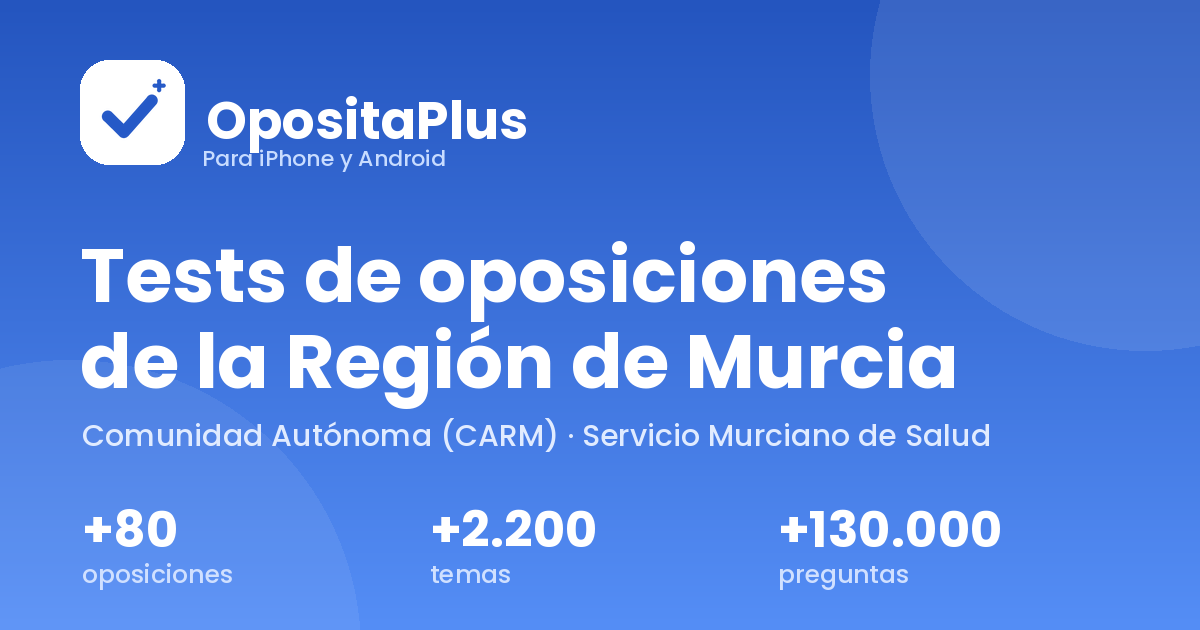
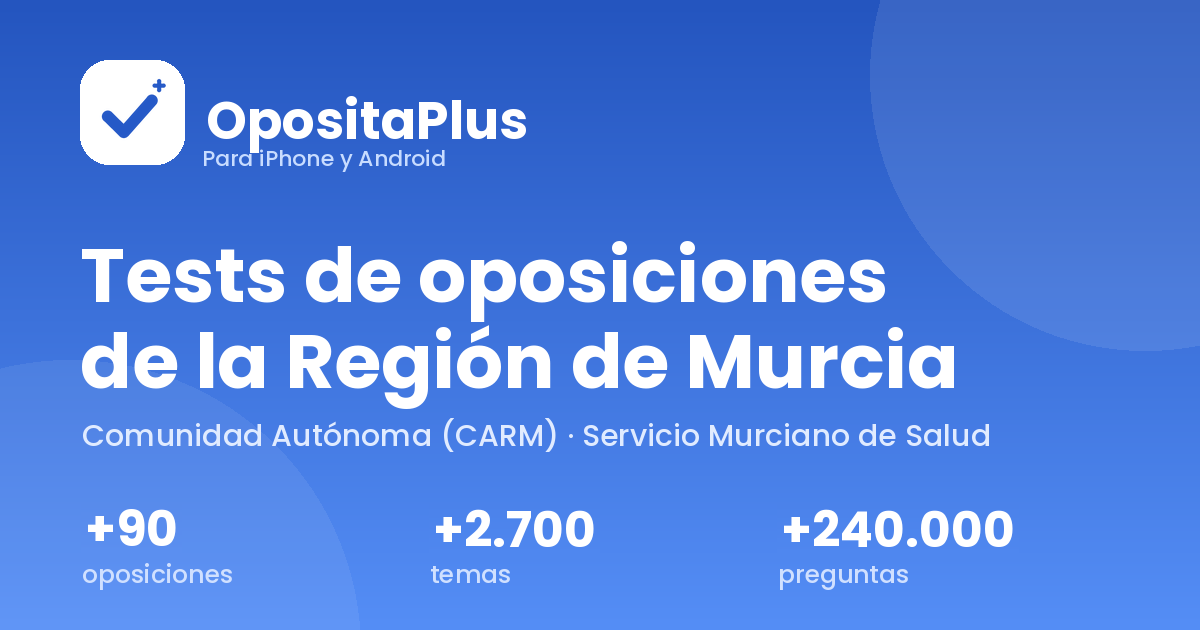
update: cifras de la portada al día (+90 oposiciones, +2.700 temas, +240.000 preguntas, +250 exámenes oficiales)
Claude-Session: https://claude.ai/code/session_01GZ267wreMsLPqSEXH5AKp5

Changed region(s): [[0.6475, 0.7841, 0.8633, 0.8746], [0.37, 0.8143, 0.4933, 0.8746], [0.0617, 0.8143, 0.1542, 0.8746]]

diff --git a/index.html b/index.html
@@ -4,7 +4,7 @@
 <meta charset="utf-8">
 <meta name="viewport" content="width=device-width, initial-scale=1">
 <title>Tests de oposiciones de Murcia: CARM y SMS | OpositaPlus</title>
-<meta name="description" content="Tests de las oposiciones de la Región de Murcia (CARM) y del Servicio Murciano de Salud: +85 oposiciones y +170.000 preguntas corregidas. iPhone y Android.">
+<meta name="description" content="Tests de las oposiciones de la Región de Murcia (CARM) y del Servicio Murciano de Salud: +90 oposiciones y +240.000 preguntas corregidas. iPhone y Android.">
 <meta name="keywords" content="oposiciones Región de Murcia, oposiciones CARM, oposiciones Servicio Murciano de Salud, tests oposiciones Murcia, app oposiciones Murcia, temario CARM, temario SMS, simulacros oposiciones Murcia">
 <meta name="author" content="OpositaPlus">
 <meta name="robots" content="index, follow, max-snippet:-1, max-image-preview:large, max-video-preview:-1">
@@ -22,7 +22,7 @@
 <meta property="og:locale" content="es_ES">
 <meta property="og:url" content="https://opositaplus.app/">
 <meta property="og:title" content="Tests de oposiciones de Murcia: CARM y Servicio Murciano de Salud">
-<meta property="og:description" content="+85 oposiciones, +2.400 temas y +170.000 preguntas con corrección razonada y la teoría de cada tema justo donde fallas. Para iPhone y Android.">
+<meta property="og:description" content="+90 oposiciones, +2.700 temas y +240.000 preguntas con corrección razonada y la teoría de cada tema justo donde fallas. Para iPhone y Android.">
 <meta property="og:type" content="website">
 <meta property="og:image" content="https://opositaplus.app/og-opositaplus.png">
 <meta property="og:image:width" content="1200">
@@ -31,7 +31,7 @@
 <meta name="twitter:card" content="summary_large_image">
 <meta name="twitter:site" content="@opositaplus">
 <meta name="twitter:title" content="Tests de oposiciones de Murcia: CARM y Servicio Murciano de Salud">
-<meta name="twitter:description" content="+85 oposiciones, +2.400 temas y +170.000 preguntas con corrección razonada. Para iPhone y Android.">
+<meta name="twitter:description" content="+90 oposiciones, +2.700 temas y +240.000 preguntas con corrección razonada. Para iPhone y Android.">
 <meta name="twitter:image" content="https://opositaplus.app/og-opositaplus.png">
 <link rel="preconnect" href="https://fonts.googleapis.com">
 <link rel="preconnect" href="https://fonts.gstatic.com" crossorigin>
@@ -1346,14 +1346,14 @@ html.js .reveal.is-in {
   "inLanguage": "es-ES",
   "image": "https://opositaplus.app/og-opositaplus.png",
   "screenshot": "https://opositaplus.app/og-opositaplus.png",
-  "description": "Aplicación de tests para preparar las oposiciones de la Comunidad Autónoma de la Región de Murcia (CARM) y del Servicio Murciano de Salud (SMS). Más de 85 oposiciones, más de 2.400 temas y más de 170.000 preguntas con corrección razonada, además de 72 exámenes oficiales de convocatorias anteriores. Cada tema incluye como mínimo tres tests de veinte preguntas, introducción, puntos clave y los artículos que hay que memorizar. Funciona sin conexión.",
+  "description": "Aplicación de tests para preparar las oposiciones de la Comunidad Autónoma de la Región de Murcia (CARM) y del Servicio Murciano de Salud (SMS). Más de 90 oposiciones, más de 2.700 temas y más de 240.000 preguntas con corrección razonada, además de más de 250 exámenes oficiales de convocatorias anteriores. Cada tema incluye como mínimo tres tests de veinte preguntas, introducción, puntos clave y los artículos que hay que memorizar. Funciona sin conexión.",
   "featureList": [
     "Mínimo tres tests de veinte preguntas por tema",
     "Corrección razonada con la norma en la que se apoya cada respuesta",
     "Introducción, puntos clave y artículos de cada tema",
     "Simulacros cronometrados",
     "Repaso de fallos con repetición espaciada",
-    "72 exámenes oficiales transcritos de su cuadernillo",
+    "Más de 250 exámenes oficiales transcritos de su cuadernillo",
     "Estadísticas de aciertos y evolución semanal",
     "Funciona sin conexión",
     "Modo oscuro"
@@ -1463,7 +1463,7 @@ html.js .reveal.is-in {
       "name": "¿Cuántos temas y preguntas tiene?",
       "acceptedAnswer": {
         "@type": "Answer",
-        "text": "Más de 2.400 temas y más de 170.000 preguntas con corrección razonada, además de 72 exámenes oficiales de convocatorias anteriores con 6.100 preguntas más. Cada tema lleva como mínimo tres tests de veinte preguntas, su introducción, sus puntos clave y sus artículos."
+        "text": "Más de 2.700 temas y más de 240.000 preguntas con corrección razonada, además de más de 250 exámenes oficiales de convocatorias anteriores con más de 20.000 preguntas más. Cada tema lleva como mínimo tres tests de veinte preguntas, su introducción, sus puntos clave y sus artículos."
       }
     },
     {
@@ -1487,7 +1487,7 @@ html.js .reveal.is-in {
       "name": "¿Trae exámenes oficiales de años anteriores?",
       "acceptedAnswer": {
         "@type": "Answer",
-        "text": "Sí. 72 exámenes del Servicio Murciano de Salud, transcritos de su cuadernillo con la letra correcta de la plantilla oficial de respuestas: 6.160 preguntas reales de la OEP 2019-2021, del Plan de Estabilización y de la OEP 2017-2018. Se quedan fuera las anuladas y las que preguntan por un dibujo del cuadernillo, y la tarjeta del examen te dice cuántas faltan y por qué."
+        "text": "Sí. Más de 250 exámenes del Servicio Murciano de Salud y de la Comunidad Autónoma, del turno libre y de promoción interna, transcritos de su cuadernillo con la letra correcta de la plantilla oficial de respuestas: más de 20.000 preguntas reales, desde la OEP 2017. Se quedan fuera las anuladas, y la tarjeta del examen te dice cuántas faltan y por qué."
       }
     },
     {
@@ -1659,7 +1659,7 @@ html.js .reveal.is-in {
       <p class="hero-sub">
         La aplicación <strong>para iPhone y Android</strong> con la que preparar las oposiciones de la
         <strong>Región de Murcia</strong> y del <strong>Servicio Murciano de Salud</strong>. Se estudia
-        respondiendo: más de <strong>170.000 preguntas</strong> con corrección razonada y, detrás de cada
+        respondiendo: más de <strong>240.000 preguntas</strong> con corrección razonada y, detrás de cada
         una, la explicación del tema, los puntos clave y el artículo exacto para el momento en que falles.
       </p>
 
@@ -1747,10 +1747,10 @@ html.js .reveal.is-in {
 <section class="section" style="padding-top:0">
   <div class="wrap">
     <div class="stats reveal">
-      <div class="stat"><b>+85</b><span>oposiciones de la CARM y del SMS</span></div>
-      <div class="stat"><b>+170.000</b><span>preguntas con corrección razonada</span></div>
-      <div class="stat"><b>+2.400</b><span>temas con ficha y tests</span></div>
-      <div class="stat"><b>72</b><span>exámenes oficiales transcritos</span></div>
+      <div class="stat"><b>+90</b><span>oposiciones de la CARM y del SMS</span></div>
+      <div class="stat"><b>+240.000</b><span>preguntas con corrección razonada</span></div>
+      <div class="stat"><b>+2.700</b><span>temas con ficha y tests</span></div>
+      <div class="stat"><b>+250</b><span>exámenes oficiales transcritos</span></div>
     </div>
   </div>
 </section>
@@ -1895,7 +1895,7 @@ html.js .reveal.is-in {
           </tr>
           <tr>
             <th scope="row">Exámenes oficiales de años anteriores</th>
-            <td class="col-us"><span class="mark mark-yes"><svg class="ic" aria-hidden="true"><use href="#i-check-circle"/></svg> 72 exámenes transcritos de su cuadernillo</span></td>
+            <td class="col-us"><span class="mark mark-yes"><svg class="ic" aria-hidden="true"><use href="#i-check-circle"/></svg> Más de 250 exámenes transcritos de su cuadernillo</span></td>
             <td><span class="mark mark-half"><svg class="ic" aria-hidden="true"><use href="#i-minus-circle"/></svg> Alguno suelto en fotocopia</span></td>
             <td><span class="mark mark-no"><svg class="ic" aria-hidden="true"><use href="#i-xmark-circle"/></svg> Casi nunca</span></td>
           </tr>
@@ -2203,7 +2203,7 @@ html.js .reveal.is-in {
       </details>
       <details class="acc-item">
         <summary>¿Cuántos temas y preguntas tiene?<svg class="ic ic-chev" style="margin-left:auto" aria-hidden="true"><use href="#i-chevron-down"/></svg></summary>
-        <div class="acc-body"><p>Más de <strong>2.400 temas</strong> y más de <strong>170.000 preguntas</strong> con corrección razonada, además de <strong>72 exámenes oficiales</strong> de convocatorias anteriores con 6.100 preguntas más. Cada tema lleva como mínimo tres tests de veinte preguntas, su introducción, sus puntos clave y sus artículos.</p></div>
+        <div class="acc-body"><p>Más de <strong>2.700 temas</strong> y más de <strong>240.000 preguntas</strong> con corrección razonada, además de <strong>más de 250 exámenes oficiales</strong> de convocatorias anteriores con más de 20.000 preguntas más. Cada tema lleva como mínimo tres tests de veinte preguntas, su introducción, sus puntos clave y sus artículos.</p></div>
       </details>
       <details class="acc-item">
         <summary>¿Funciona en iPhone y en Android?<svg class="ic ic-chev" style="margin-left:auto" aria-hidden="true"><use href="#i-chevron-down"/></svg></summary>
@@ -2215,7 +2215,7 @@ html.js .reveal.is-in {
       </details>
       <details class="acc-item">
         <summary>¿Trae exámenes oficiales de años anteriores?<svg class="ic ic-chev" style="margin-left:auto" aria-hidden="true"><use href="#i-chevron-down"/></svg></summary>
-        <div class="acc-body"><p>Sí. <strong>72 exámenes del Servicio Murciano de Salud</strong>, transcritos de su cuadernillo con la letra correcta de la plantilla oficial de respuestas: 6.160 preguntas reales de la OEP 2019-2021, del Plan de Estabilización y de la OEP 2017-2018. Se quedan fuera las anuladas y las que preguntan por un dibujo del cuadernillo, y la tarjeta del examen te dice cuántas faltan y por qué.</p></div>
+        <div class="acc-body"><p>Sí. <strong>Más de 250 exámenes del Servicio Murciano de Salud y de la Comunidad Autónoma</strong>, del turno libre y de promoción interna, transcritos de su cuadernillo con la letra correcta de la plantilla oficial de respuestas: más de 20.000 preguntas reales, desde la OEP 2017. Se quedan fuera las anuladas, y la tarjeta del examen te dice cuántas faltan y por qué.</p></div>
       </details>
       <details class="acc-item">
         <summary>¿Qué diferencia hay entre pagar al mes y al año?<svg class="ic ic-chev" style="margin-left:auto" aria-hidden="true"><use href="#i-chevron-down"/></svg></summary>
